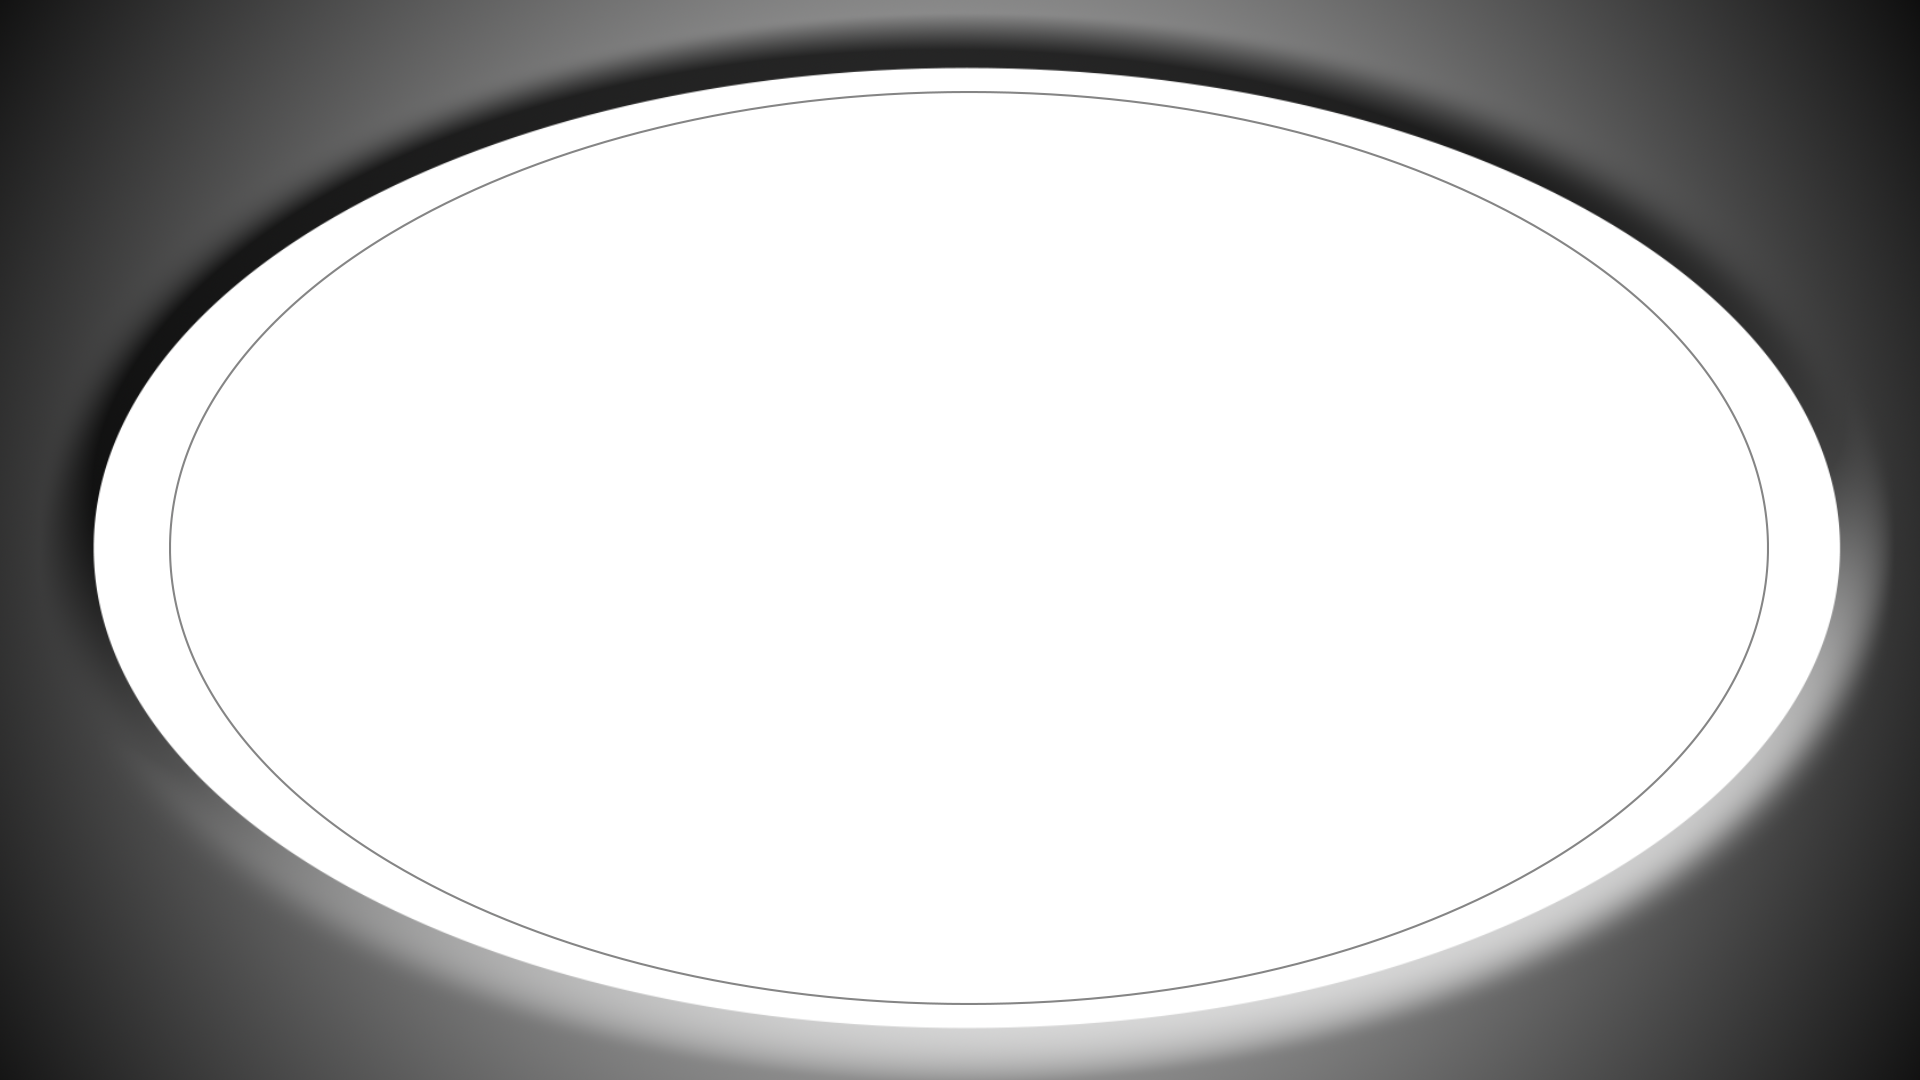
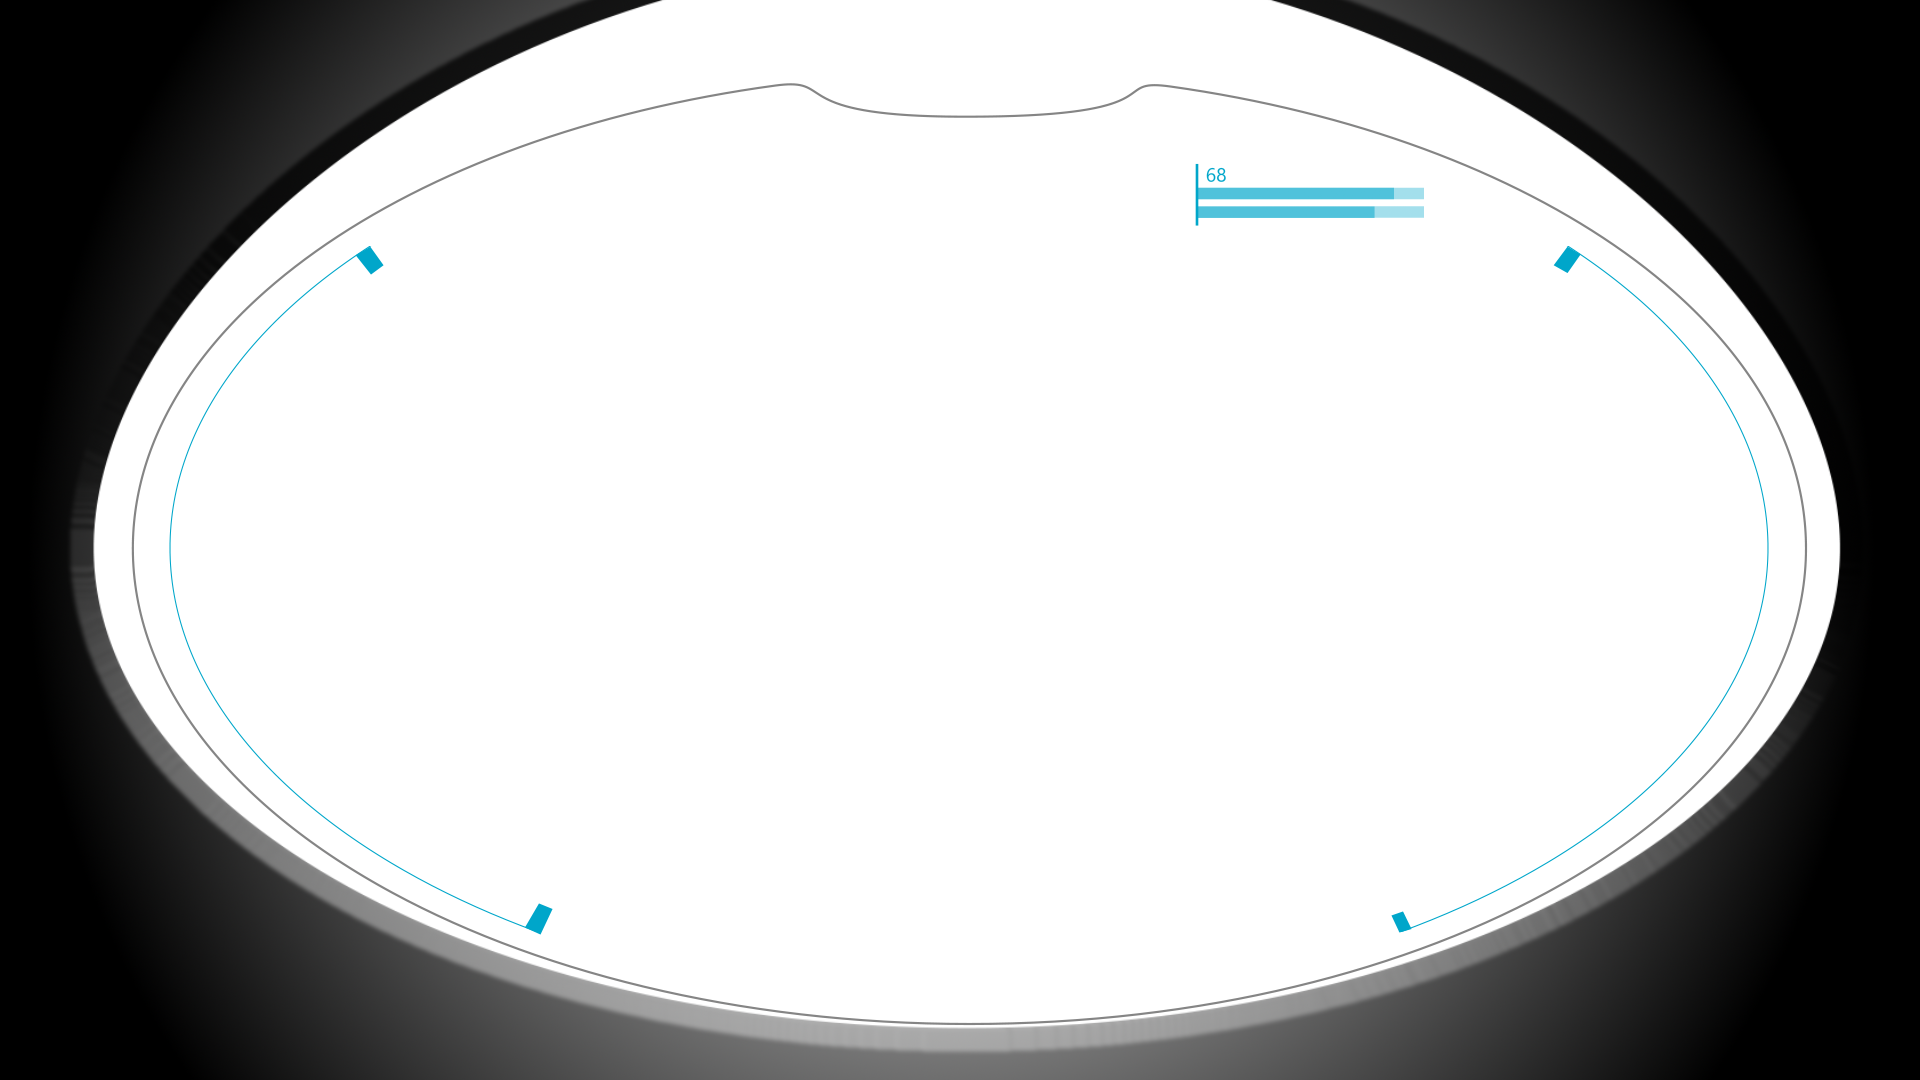
New Helmet

diff --git a/phobos.html b/phobos.html
@@ -62,11 +62,6 @@
         </div>
       </div>
 
-      <!-- noise overlay -->
-      <!--div>
-        <img class=overlay src="./Assets/noisetest.png" width=100% height=100%>
-      </div-->
-      
     <a-scene fog="type: exponential; color: #000; density: .0035" start>
       
       <a-assets>
@@ -89,7 +84,7 @@
 
       <!--Camera-->
       <a-entity id="rig" camera look-controls wasd-controls="acceleration:10" position="0 1.6 50"> 
-        <a-image src="#helmet" rotation="0 -180 0" position="0 0 -2" scale="8 5 5"></a-image>
+        <a-image src="#helmet" transparent="true"  material="alphaTest: 0.5" rotation="0 0 0" position="0 0 -2" scale="7 4 5"></a-image>
       </a-entity>
       
       <!--Lights-->
